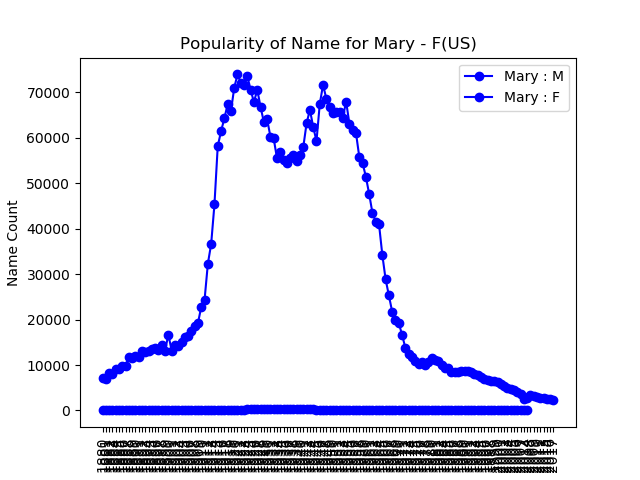
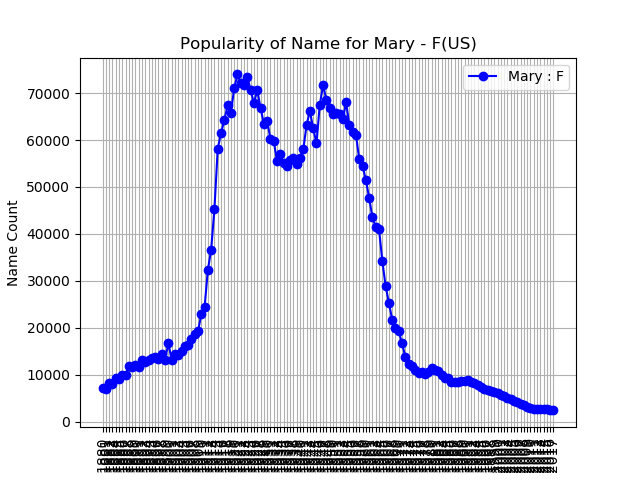
format

diff --git a/nameTrender/templates/index.html b/nameTrender/templates/index.html
@@ -29,7 +29,7 @@
                 <div class="graph">
                     <img src="{{ femaleimg }}" alt="Female Image">
                     <h3>Female Trend</h3>
-                    <p>The total number of babies born with the name {{ name }}(1880-2017)</p>
+                    <p>The total number of female babies born with the name {{ name }}(1880-2017)</p>
                 </div>
                 <div class="graph">
                     <img src="static/img/screenshot_ssa.jpg" alt="">

diff --git a/nameTrender/namesdictionary.py b/nameTrender/namesdictionary.py
@@ -501,6 +501,8 @@ pregraphedMales = {'Aaron': 'Aaron.png',
  'Zachary': 'Zachary.png',
  'Zane': 'Zane.png'}
 
+
+
 pregraphedFemales = {'Aaliyah': 'Aaliyah.png',
  'Abby': 'Abby.png',
  'Abigail': 'Abigail.png',
@@ -842,7 +844,6 @@ pregraphedFemales = {'Aaliyah': 'Aaliyah.png',
  'Marlene': 'Marlene.png',
  'Marsha': 'Marsha.png',
  'Martha': 'Martha.png',
- 'Mary': 'Mary.png',
  'Maryann': 'Maryann.png',
  'Mattie': 'Mattie.png',
  'Maureen': 'Maureen.png',
